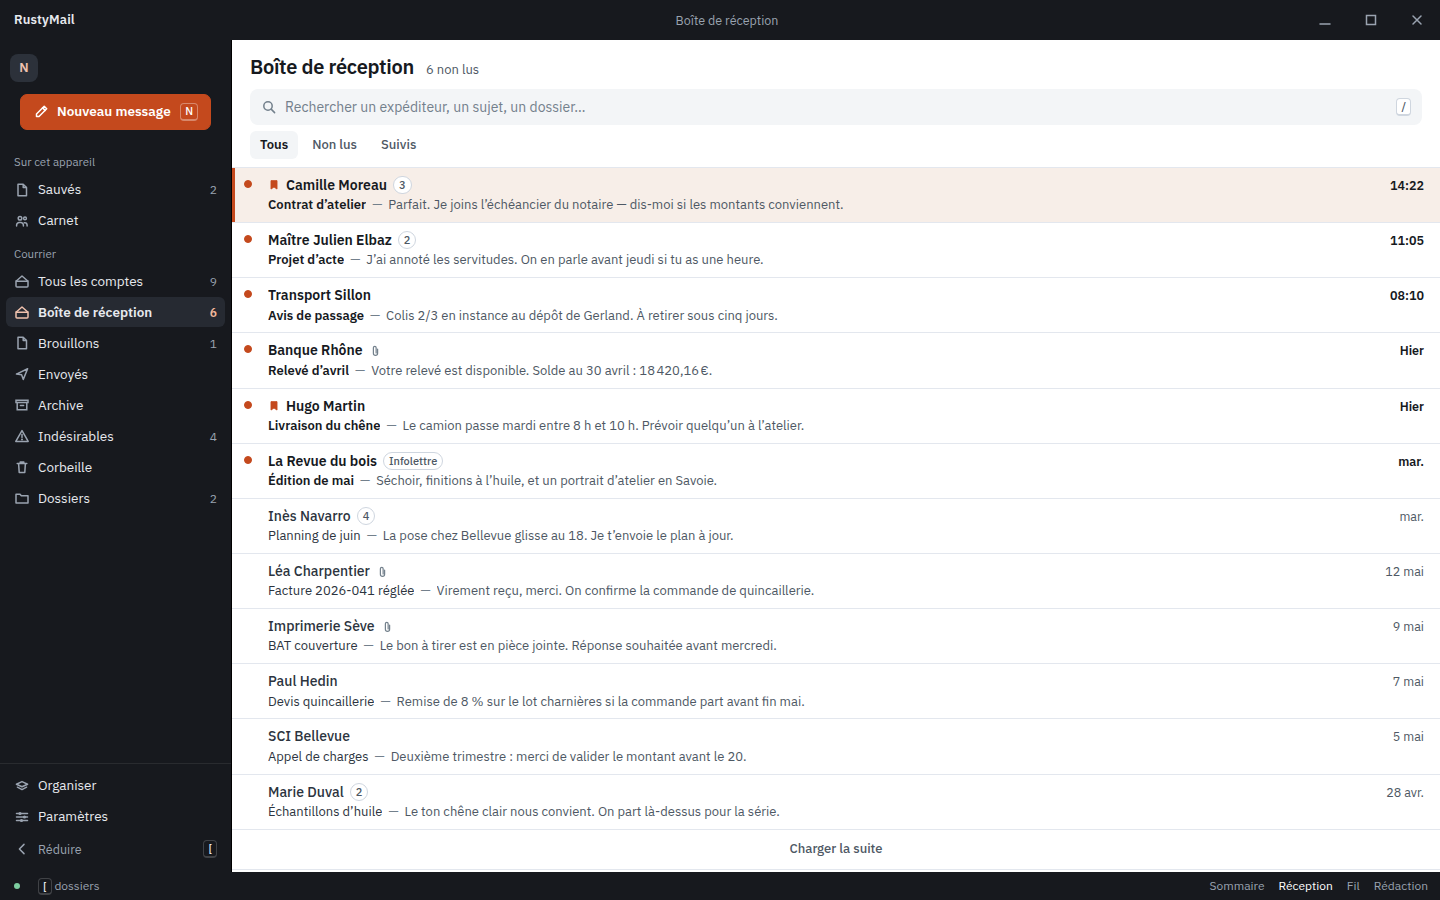
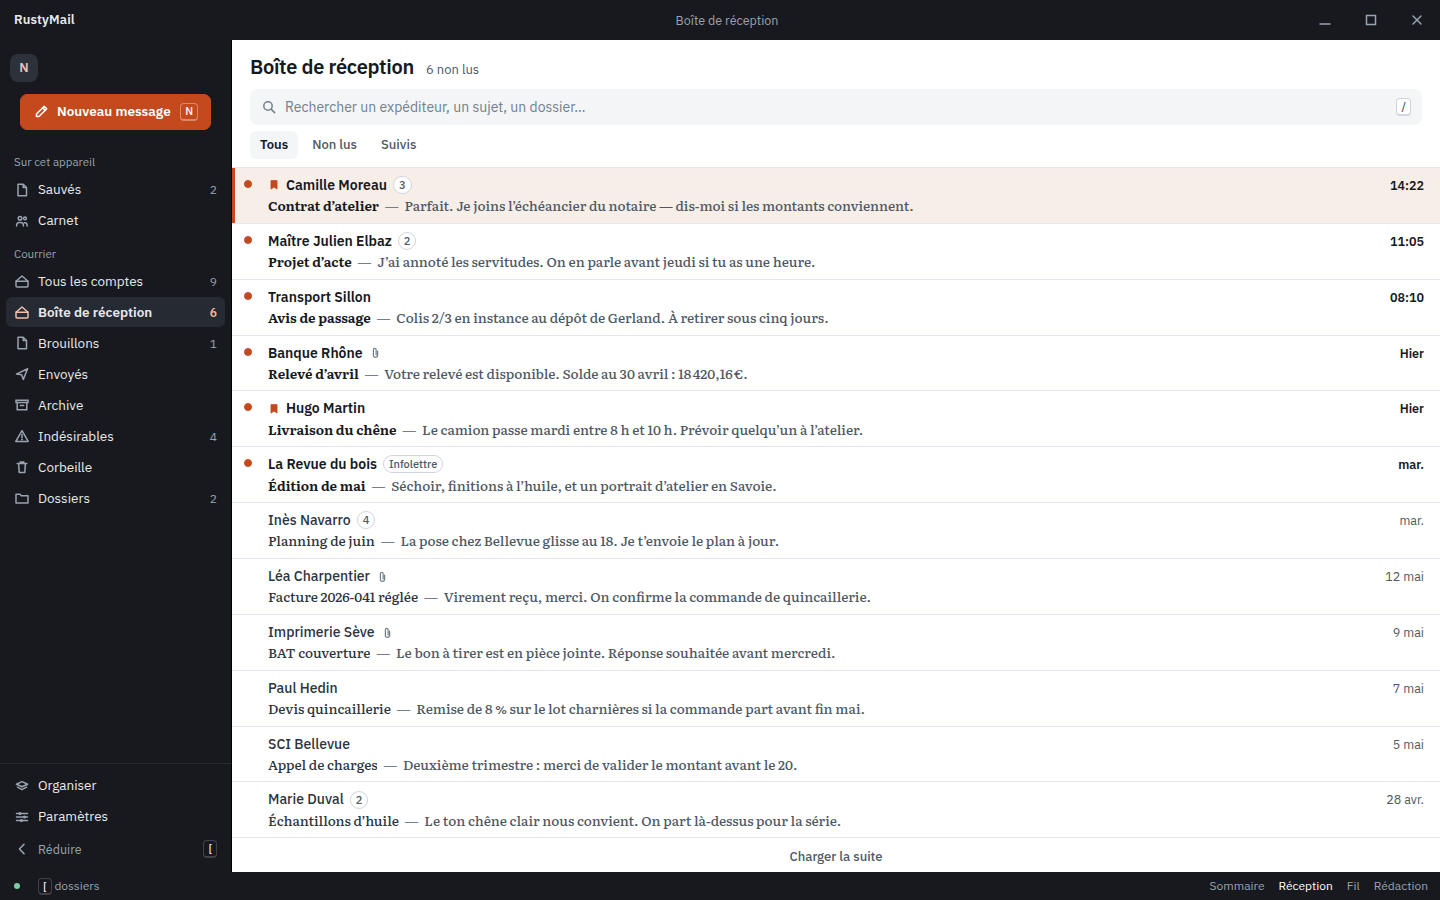
docs(ux): captures du fil pliable et de la modale contact
Un clic quand plusieurs messages sont ouverts revient à celui-là seul. Captures fraîches du fil, de la fiche contact, de la réception et de la rédaction.

diff --git a/docs/mockups/productivity/mockup.js b/docs/mockups/productivity/mockup.js
@@ -375,9 +375,13 @@
     btn.addEventListener("click", () => {
       const turn = btn.closest(".turn");
       if (!turn) return;
-      const willOpen = !turn.classList.contains("is-open");
-      document.querySelectorAll(".turn").forEach((other) => setTurn(other, false));
-      if (willOpen) setTurn(turn, true);
+      const openCount = document.querySelectorAll(".turn.is-open").length;
+      const wasOpen = turn.classList.contains("is-open");
+      if (wasOpen && openCount === 1) {
+        setTurn(turn, false);
+        return;
+      }
+      document.querySelectorAll(".turn").forEach((other) => setTurn(other, other === turn));
     });
   });
 
